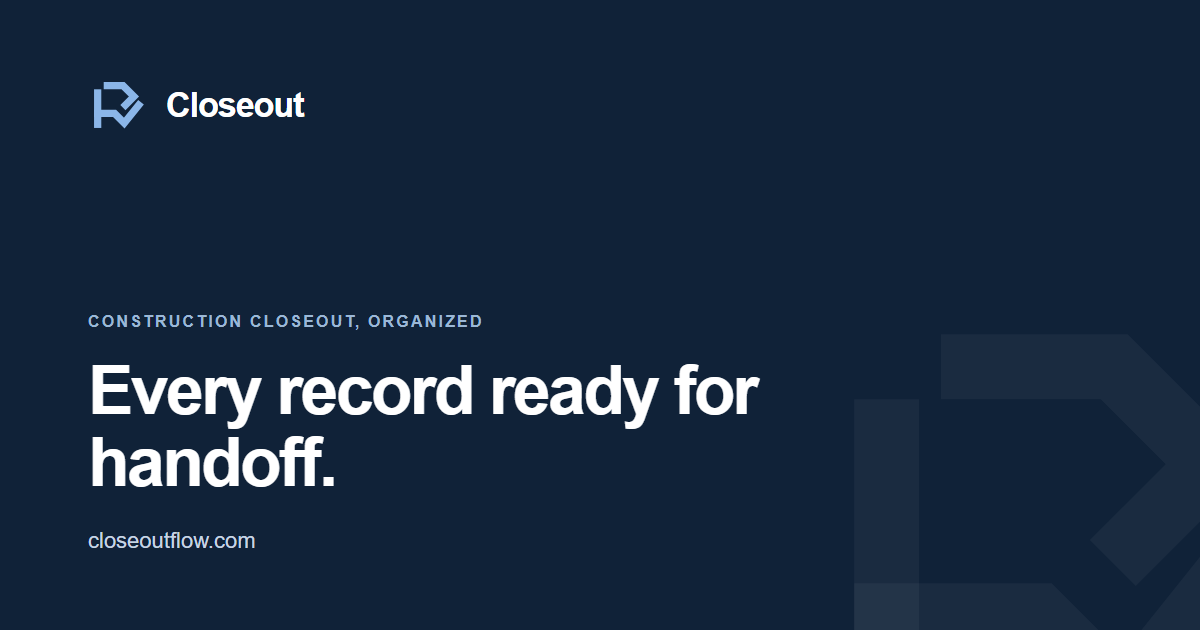
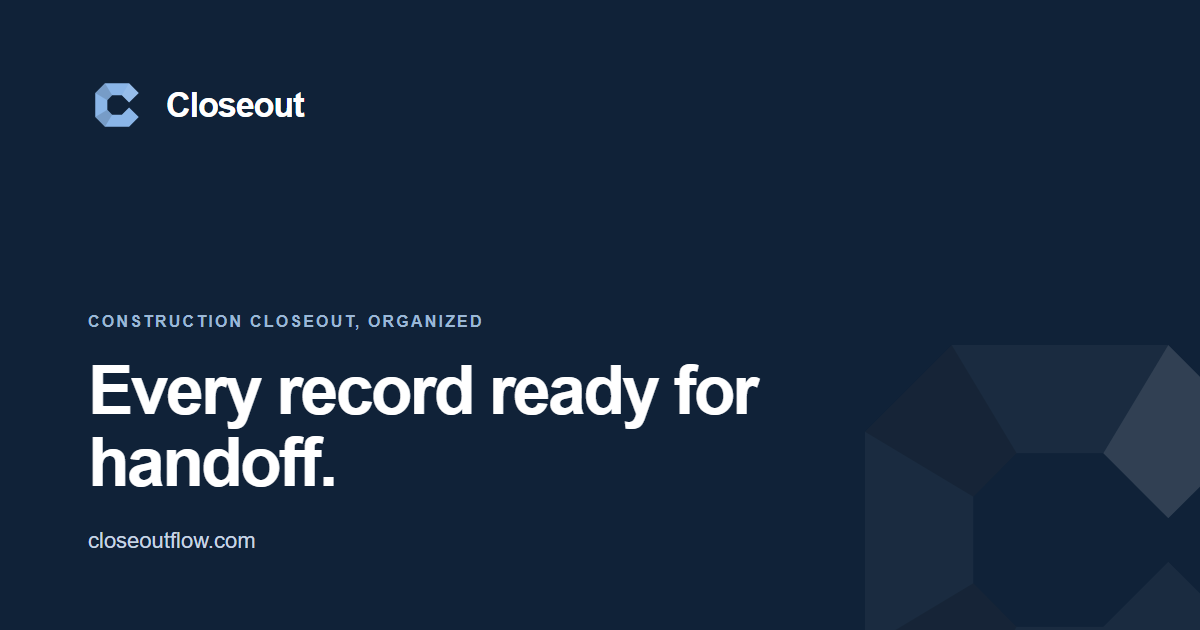
feat: apply founder-selected Keystone Fold globally

Changed region(s): [[0.0617, 0.1206, 0.1233, 0.2111], [0.9558, 0.5429, 1.0, 0.6635], [0.925, 0.6635, 0.9867, 0.7841]]

diff --git a/apps/web/components/brand/closeout-logo.tsx b/apps/web/components/brand/closeout-logo.tsx
@@ -2,6 +2,11 @@ import type { SVGProps } from "react";
 
 type LogoVariant = "brand" | "monochrome" | "inverse";
 
+const detailedMarkPath =
+  "M14 6H34L42 14L34 22L28 16H20L16 20V28L20 32H28L34 26L42 34L34 42H14L6 34V14Z";
+const compactMarkPath =
+  "M14 6H33L41 14L34 21L29 16H21L16 21V27L21 32H29L34 27L41 34L33 42H14L6 34V14Z";
+
 export function CloseoutMark({
   size = 32,
   compact = false,
@@ -25,40 +30,13 @@ export function CloseoutMark({
       width={size}
       xmlns="http://www.w3.org/2000/svg"
     >
-      <path
-        d={compact ? "M9 14v26" : "M8 14v26"}
-        fill="none"
-        stroke="currentColor"
-        strokeLinecap="square"
-        strokeLinejoin="miter"
-        strokeWidth={compact ? 6.5 : 6}
-      />
-      <path
-        d={compact ? "M17 8h12l9 9-7 7" : "M16 8h13l9 9-7 7"}
-        fill="none"
-        stroke="currentColor"
-        strokeLinecap="square"
-        strokeLinejoin="miter"
-        strokeWidth={compact ? 6.5 : 6}
-      />
-      <path
-        d={compact ? "M9 31h13l8 8 12-15" : "M8 31h14l8 8 12-15"}
-        fill="none"
-        stroke="currentColor"
-        strokeLinecap="square"
-        strokeLinejoin="miter"
-        strokeWidth={compact ? 6.5 : 6}
-      />
-      {!compact ? (
-        <path
-          d="M29 8v9h9"
-          fill="none"
-          opacity="0.34"
-          stroke="currentColor"
-          strokeLinecap="square"
-          strokeLinejoin="miter"
-          strokeWidth="2"
-        />
+      <path d={compact ? compactMarkPath : detailedMarkPath} fill="currentColor" />
+      {!compact && size >= 24 ? (
+        <>
+          <path d="M14 6L20 16L16 20L6 14Z" fill="#000000" opacity="0.14" />
+          <path d="M6 34L16 28L20 32L14 42Z" fill="#000000" opacity="0.14" />
+          <path d="M34 6L42 14L34 22L28 16Z" fill="#ffffff" opacity="0.1" />
+        </>
       ) : null}
     </svg>
   );
@@ -101,30 +79,10 @@ export function CloseoutLogo({
 export function StaticCloseoutMark(props: SVGProps<SVGSVGElement>) {
   return (
     <svg aria-hidden="true" focusable="false" viewBox="0 0 48 48" {...props}>
-      <path
-        d="M8 14v26"
-        fill="none"
-        stroke="currentColor"
-        strokeLinecap="square"
-        strokeLinejoin="miter"
-        strokeWidth="6"
-      />
-      <path
-        d="M16 8h13l9 9-7 7"
-        fill="none"
-        stroke="currentColor"
-        strokeLinecap="square"
-        strokeLinejoin="miter"
-        strokeWidth="6"
-      />
-      <path
-        d="M8 31h14l8 8 12-15"
-        fill="none"
-        stroke="currentColor"
-        strokeLinecap="square"
-        strokeLinejoin="miter"
-        strokeWidth="6"
-      />
+      <path d={detailedMarkPath} fill="currentColor" />
+      <path d="M14 6L20 16L16 20L6 14Z" fill="#000000" opacity="0.14" />
+      <path d="M6 34L16 28L20 32L14 42Z" fill="#000000" opacity="0.14" />
+      <path d="M34 6L42 14L34 22L28 16Z" fill="#ffffff" opacity="0.1" />
     </svg>
   );
 }

diff --git a/apps/web/components/brand/closeout-logo.test.tsx b/apps/web/components/brand/closeout-logo.test.tsx
@@ -12,13 +12,14 @@ describe("Closeout final logo", () => {
     expect(screen.queryByText("CloseoutFlow")).not.toBeInTheDocument();
   });
 
-  it("uses a simplified dedicated compact cut", () => {
+  it("uses a filled faceted mark and a simplified compact cut", () => {
     const detailed = render(<CloseoutMark title="Detailed Closeout symbol" />);
     expect(detailed.container.querySelectorAll("path")).toHaveLength(4);
+    expect(detailed.container.querySelector("path")).toHaveAttribute("fill", "currentColor");
     detailed.unmount();
 
     const compact = render(<CloseoutMark compact title="Compact Closeout symbol" />);
-    expect(compact.container.querySelectorAll("path")).toHaveLength(3);
+    expect(compact.container.querySelectorAll("path")).toHaveLength(1);
     expect(screen.getByRole("img", { name: "Compact Closeout symbol" })).toHaveAttribute(
       "viewBox",
       "0 0 48 48"

diff --git a/docs/brand/logo-decision.md b/docs/brand/logo-decision.md
@@ -10,23 +10,27 @@ Concept C, **The Keystone Fold**, is the final Closeout logo direction. This dec
 
 The selected direction is not a license to ship the exploration mark unchanged. The final mark must retain the structural character of Concept C while making verified completion and handoff clearer and avoiding a generic block-C, hexagonal monogram, finance chevron, cryptocurrency mark, or Autodesk-like angular construction.
 
-## Final refinement
+## Founder geometry clarification
 
-The finalized construction uses two coordinated gestures on a 48-unit grid:
+On 2026-07-22, the founder supplied the original visual reference again and confirmed that the final logo must retain its compact, filled, faceted C-frame. The stroke-built spine and check construction was rejected because it read as a capital P in authentication, sidebar, inverse, and small-header contexts.
 
-1. A **structural record spine and folded upper beam** with a deliberate seam. It represents the prepared project record without becoming an enclosed badge, block letter, hexagon, or token.
-2. An **integrated lower handoff stroke** that resolves into a check and carries the eye forward. This is the verified-completion cue and replaces the exploration mark’s parallel arrow-like terminals.
+The selected production refinement is **Balanced Aperture**, the closest reconstruction of the supplied reference. Its construction uses:
 
-The asymmetry is intentional: the spine establishes organized records, the upper fold establishes readiness, and the lower completion stroke finishes the handoff. The result reads as a structured handoff mark rather than a letter C or geometric monogram.
+1. A compact filled frame with chamfered outer corners.
+2. A centered angular aperture that remains visibly open on the right.
+3. Balanced inward terminal folds that imply closure around a deliberate handoff point.
+4. Subtle planar facets at display sizes, with a flat optical cut at favicon sizes.
+
+The shape preserves a subtle connection to Closeout without relying on a literal typeset letter, extended vertical stem, bowl, or checkmark construction.
 
 ## Small-size behavior
 
 The 16×16, 32×32, and compact shell marks use a dedicated simplified cut:
 
-- the secondary fold seam is removed;
-- the frame is opened slightly;
-- the stroke weight is increased proportionally;
-- only the structural frame and completion stroke remain.
+- the planar facet overlays are removed;
+- the center aperture is opened slightly;
+- the paired terminals are shortened proportionally;
+- the filled silhouette remains intact.
 
 The compact asset is a redrawn reduction, not the detailed symbol scaled down. The symbol must remain recognizable without the wordmark and without relying on color.
 

diff --git a/docs/brand/keystone-fold-refinement-review.md b/docs/brand/keystone-fold-refinement-review.md
@@ -1,9 +1,9 @@
 # Keystone Fold refinement review
 
-> **Status:** Awaiting founder selection.
+> **Status:** Founder selection complete — Balanced Aperture.
 >
 > **Date:** 2026-07-22.
-> **Global application:** Unchanged; the currently applied Keystone Fold remains in production components and assets until a refinement is selected.
+> **Global application:** Authorized on 2026-07-22 after the founder clarified that the supplied faceted Concept C reference is the intended production geometry.
 
 ## Reason for checkpoint
 
@@ -40,6 +40,6 @@ The deterministic side-by-side capture was generated as review evidence at:
 
 `C:\Users\julia\.codex\visualizations\2026\07\22\keystone-fold-refinement\keystone-refinement-comparison.png`
 
-## Selection gate
+## Selection outcome
 
-No variant is recommended or selected in the gallery. Founder selection is required before any production component, SVG source, favicon, PWA icon, social asset, email asset, or generated raster is replaced. After selection, the chosen geometry must receive final small-size optical tuning and the complete Phase 5E validation/capture suite before global application.
+The founder selected the reference-faithful direction represented by **A — Balanced Aperture**. The production component, SVG sources, favicon/PWA icons, social asset, email asset, Open Graph asset, and generated rasters may now be replaced with this geometry. The wider-aperture optical cut is retained only for compact and favicon use.

diff --git a/docs/brand/phase-5e-exit-review.md b/docs/brand/phase-5e-exit-review.md
@@ -6,7 +6,7 @@
 
 ## Closeout decision
 
-The founder selected Concept C and the decision is recorded in [logo-decision.md](./logo-decision.md). The exploration mark was refined into a non-enclosing three-part construction: a record spine, a detached folded upper beam, and a lower verified-handoff stroke. A dedicated compact cut removes the secondary seam and increases the optical weight for 16×16 and 32×32 use.
+The founder selected Concept C and clarified the final geometry with the original visual reference, as recorded in [logo-decision.md](./logo-decision.md). The production mark is a compact, filled, faceted C-frame closing around an angular aperture with balanced inward terminal folds. A dedicated compact cut removes the facet overlays, widens the aperture, and shortens the terminals for 16×16 and 32×32 use.
 
 The final system avoids treating the symbol as a block letter C, enclosed token, hexagonal monogram, finance-only chevron, cryptocurrency glyph, or Autodesk-like A. The symbol remains identifiable without the wordmark, works in brand blue, monochrome, and inverse use, and uses a deliberate 14px standard lockup gap and 10px compact gap.
 
